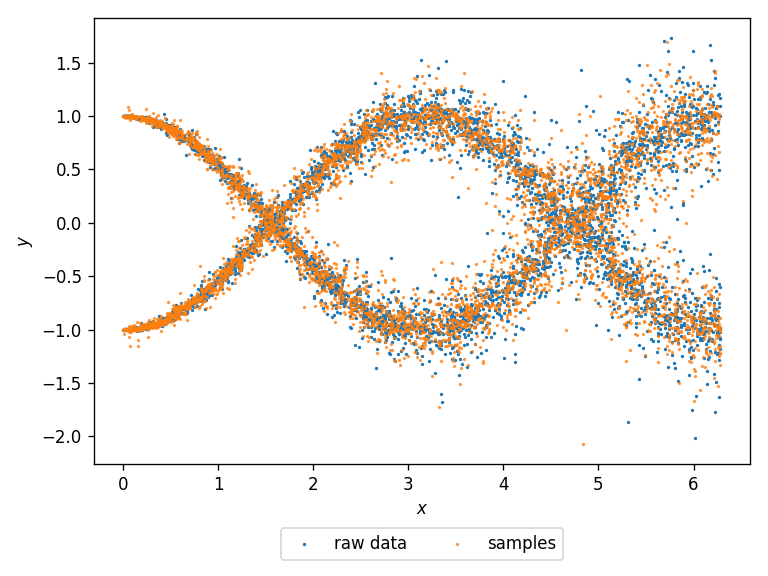
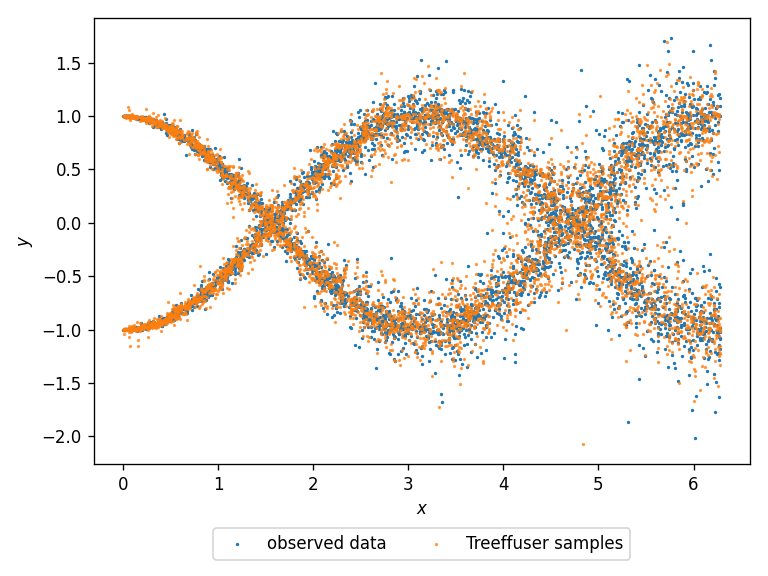
rename labels

Changed region(s): [[0.5938, 0.9062, 0.8125, 1.0], [0.2812, 0.9062, 0.5312, 0.9688], [0.2812, 0.9688, 0.3438, 1.0]]

diff --git a/examples/README_example.py b/examples/README_example.py
@@ -18,8 +18,8 @@ model.fit(x, y)
 # Generate and plot samples
 y_samples = model.sample(x, n_samples=1, seed=seed, verbose=True)
 
-plt.scatter(x, y, s=1, label="raw data")
-plt.scatter(x, y_samples[0, :], s=1, alpha=0.7, label="samples")
+plt.scatter(x, y, s=1, label="observed data")
+plt.scatter(x, y_samples[0, :], s=1, alpha=0.7, label="Treeffuser samples")
 
 plt.xlabel("$x$")
 plt.ylabel("$y$")
